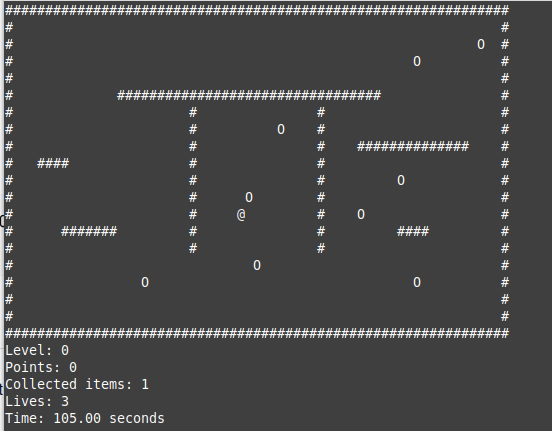
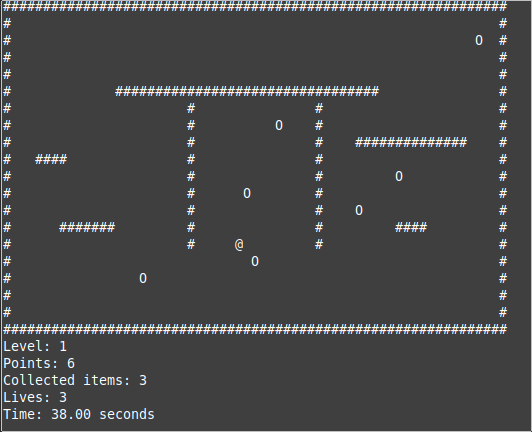
Added Points and Level

diff --git a/games/grabThePoints/levels.cpp b/games/grabThePoints/levels.cpp
@@ -84,7 +84,7 @@ void printLevel(int nLevel){
     mvprintw(row, 0, "%s", levels[nLevel][row]);
   }
   printw("\n");
-  printw("Level: %d\n", nLevel);
+  printw("Level: %d\n", nLevel+1);
   printw("Points: %d\n", nPoints);
   printw("Collected items: %d\n", nColl);
   printw("Lives: %d\n", nLife);

diff --git a/games/grabThePoints/main.cpp b/games/grabThePoints/main.cpp
@@ -81,6 +81,7 @@ int main() {
 
           if(levels[level][y][x] == 'O'){
             nColl++;
+            nPoints += 2;
             levels[level][y][x] = ' ';  // remove object from the level
             printLevel(level);
             mvaddch(old_y, old_x, ' '); // Erase previous character
